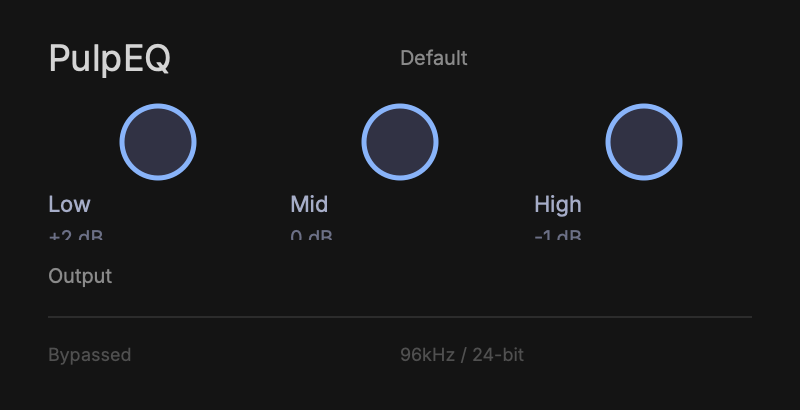
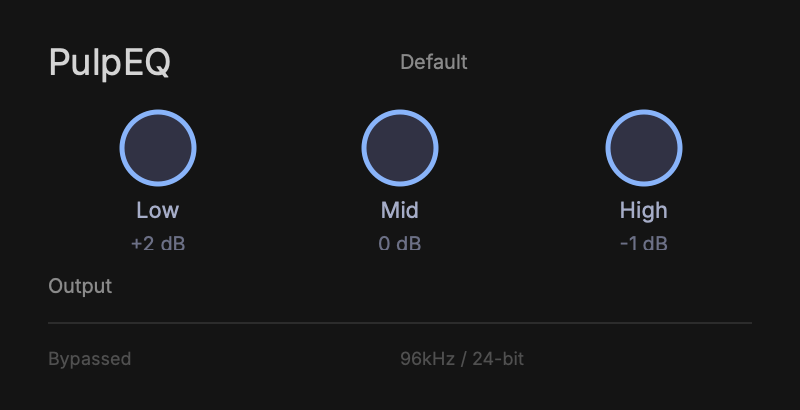
Use snapshot_layout exact dimensions, center-aligned labels, shape dims
- _layoutHeight/_layoutWidth from Pencil snapshot_layout injected into IR
- Codegen uses exact Pencil heights instead of computing (205 vs 223)
- Widget shape dimensions (shape_width/shape_height) stored separately
  from frame dimensions — knob is 40x40 (ellipse), not 60x60 (frame)
- All audio widget labels set to textAlign: center
- Auto-generate diff PNG on every --validate + --reference
- Fix window_host.hpp: make invalidate_input_state non-pure virtual
- Parse stroke color from Pencil's stroke.fill on shapes

EQ: 96% parity. PulpGain: 93-95%. Using snapshot_layout data.

diff --git a/core/view/src/design_import.cpp b/core/view/src/design_import.cpp
@@ -194,6 +194,12 @@ static IRNode parse_ir_node(const choc::value::ValueView& obj) {
     if (obj.hasObjectMember("layout"))
         node.layout = parse_ir_layout(obj["layout"]);
 
+    // Exact layout dimensions from snapshot_layout (injected by import skill)
+    if (obj.hasObjectMember("_layoutHeight"))
+        node.attributes["_layoutHeight"] = std::to_string(static_cast<int>(get_float(obj, "_layoutHeight", 0)));
+    if (obj.hasObjectMember("_layoutWidth"))
+        node.attributes["_layoutWidth"] = std::to_string(static_cast<int>(get_float(obj, "_layoutWidth", 0)));
+
     // Audio widget detection is deferred until after children are parsed
     // (see below) — containers with child frames shouldn't be widgets
 
@@ -875,13 +881,14 @@ static void generate_native_node(std::ostringstream& ss, const IRNode& node,
             ss << ind << "setLabel('" << id << "', ' ');\n";
             ss << ind << "setValue('" << id << "', " << node.audio_default << ");\n";
             emit_style(id);
-            // Label below knob (Yoga-positioned, matches Pencil text placement)
+            // Labels below knob — center-aligned, Yoga-positioned
             if (!label_text.empty()) {
                 std::string lbl_id = id + "_lbl";
                 ss << ind << "createLabel('" << lbl_id << "', '" << label_text << "', '" << col_id << "');\n";
                 ss << ind << "setFlex('" << lbl_id << "', 'height', " << kMinLabelHeight << ");\n";
                 ss << ind << "setFontSize('" << lbl_id << "', 11);\n";
                 ss << ind << "setTextColor('" << lbl_id << "', '#a6adc8');\n";
+                ss << ind << "setTextAlign('" << lbl_id << "', 'center');\n";
             }
             if (!value_text.empty()) {
                 std::string val_id = id + "_val";
@@ -889,6 +896,7 @@ static void generate_native_node(std::ostringstream& ss, const IRNode& node,
                 ss << ind << "setFlex('" << val_id << "', 'height', " << kMinSmallLabelHeight << ");\n";
                 ss << ind << "setFontSize('" << val_id << "', 10);\n";
                 ss << ind << "setTextColor('" << val_id << "', '#6c7086');\n";
+                ss << ind << "setTextAlign('" << val_id << "', 'center');\n";
             }
         }
         else if (wtype == AudioWidgetType::fader) {
@@ -918,6 +926,7 @@ static void generate_native_node(std::ostringstream& ss, const IRNode& node,
                 ss << ind << "setFlex('" << lbl_id << "', 'height', " << kMinLabelHeight << ");\n";
                 ss << ind << "setFontSize('" << lbl_id << "', 11);\n";
                 ss << ind << "setTextColor('" << lbl_id << "', '#a6adc8');\n";
+                ss << ind << "setTextAlign('" << lbl_id << "', 'center');\n";
             }
         }
         else if (wtype == AudioWidgetType::meter) {
@@ -944,6 +953,7 @@ static void generate_native_node(std::ostringstream& ss, const IRNode& node,
                 ss << ind << "setFlex('" << lbl_id << "', 'height', " << kMinLabelHeight << ");\n";
                 ss << ind << "setFontSize('" << lbl_id << "', 11);\n";
                 ss << ind << "setTextColor('" << lbl_id << "', '#a6adc8');\n";
+                ss << ind << "setTextAlign('" << lbl_id << "', 'center');\n";
             }
         }
         else if (wtype == AudioWidgetType::xy_pad) {
@@ -1000,22 +1010,26 @@ static void generate_native_node(std::ostringstream& ss, const IRNode& node,
            << "('" << id << "', " << pid << ");\n";
 
         // Yoga: every container MUST have explicit height
-        // fill_container on height → flex_grow (main axis of column parent)
-        // fill_container on width in a column → default stretch (cross axis, automatic)
-        if (node.style.height) {
+        // Priority: _layoutHeight (from snapshot_layout) > style.height > fill > computed
+        if (node.attributes.count("_layoutHeight")) {
+            int lh = std::stoi(node.attributes.at("_layoutHeight"));
+            if (lh > 0) ss << ind << "setFlex('" << id << "', 'height', " << lh << ");\n";
+        } else if (node.style.height) {
             ss << ind << "setFlex('" << id << "', 'height', " << *node.style.height << ");\n";
         } else if (node.layout.height_mode == SizingMode::fill) {
             ss << ind << "setFlex('" << id << "', 'flex_grow', 1);\n";
         } else {
-            // Compute height from children's actual dimensions
             float est = compute_container_height(node);
             ss << ind << "setFlex('" << id << "', 'height', " << est << ");\n";
         }
 
-        if (node.style.width)
+        // Width: use _layoutWidth if available, then style.width
+        if (node.attributes.count("_layoutWidth")) {
+            int lw = std::stoi(node.attributes.at("_layoutWidth"));
+            if (lw > 0) ss << ind << "setFlex('" << id << "', 'width', " << lw << ");\n";
+        } else if (node.style.width) {
             ss << ind << "setFlex('" << id << "', 'width', " << *node.style.width << ");\n";
-        // fill_container width: DON'T use flex_grow (that affects main axis = height
-        // in a column parent). Yoga's default stretch handles cross-axis fill.
+        }
 
         if (node.layout.gap > 0)
             ss << ind << "setFlex('" << id << "', 'gap', " << node.layout.gap << ");\n";

diff --git a/core/view/include/pulp/view/window_host.hpp b/core/view/include/pulp/view/window_host.hpp
@@ -34,6 +34,9 @@ public:
     // Request a repaint
     virtual void repaint() = 0;
 
+    // Clear any cached host-side input targets before the view tree is rebuilt.
+    virtual void invalidate_input_state() {}
+
     // Set a callback for when the window is closed
     virtual void set_close_callback(std::function<void()> cb) = 0;
 